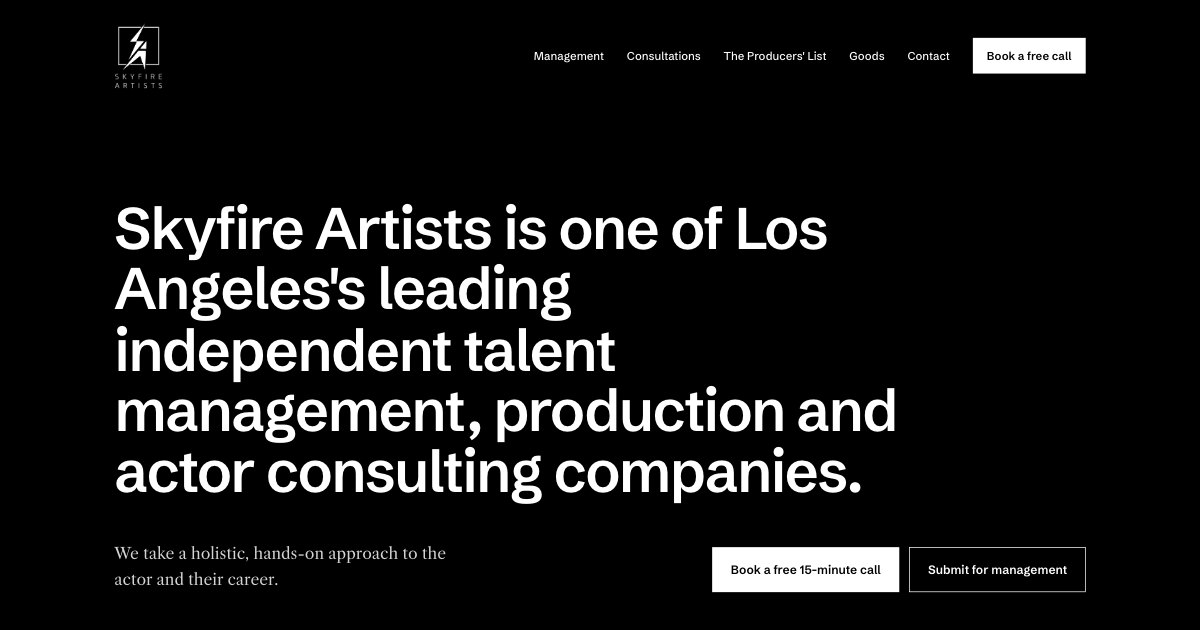
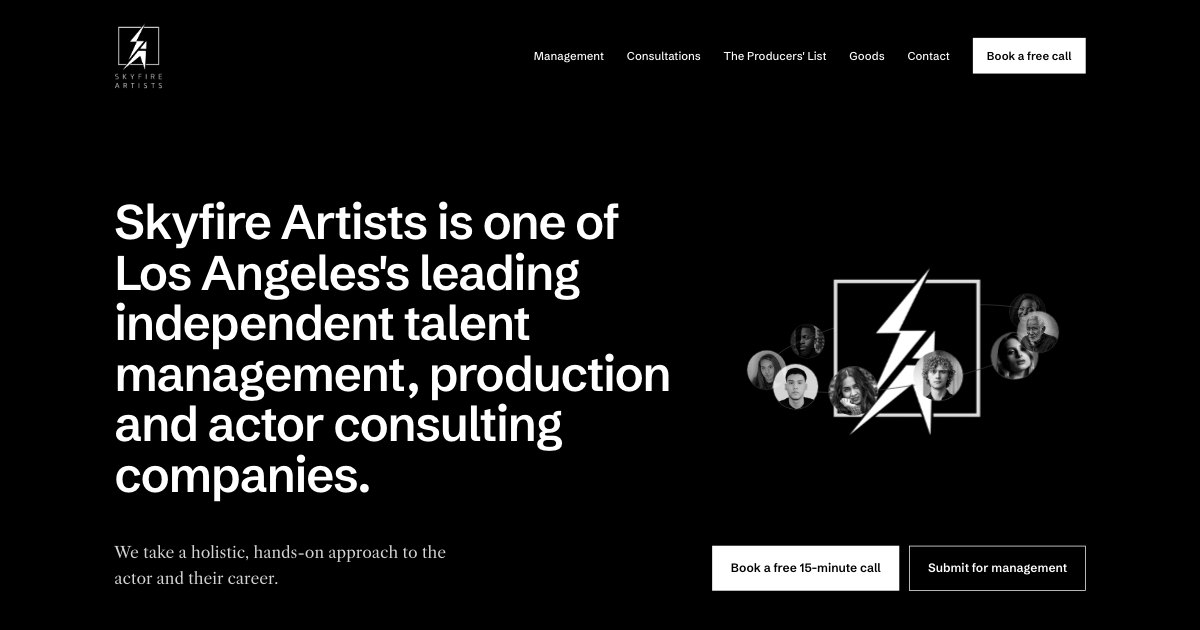
Experiments: Skyfire, the mark as a planet with a ring of clients in orbit
Ten stand-in client portraits (free Unsplash photos, black and white) circle
the bolt mark beside the headline. Still under reduced motion.

Changed region(s): [[0.0925, 0.3016, 0.8942, 0.8143], [0.5858, 0.8444, 0.8942, 0.9651], [0.0925, 0.8746, 0.37, 0.9349]]

diff --git a/site/experiments/skyfire/index.html b/site/experiments/skyfire/index.html
@@ -16,7 +16,7 @@
 <meta property="og:image" content="https://daltoncorr.com/experiments/skyfire/assets/og.jpg">
 <meta property="og:image:width" content="1200">
 <meta property="og:image:height" content="630">
-<meta property="og:image:alt" content="The Skyfire Artists logo above the headline: Skyfire Artists is one of Los Angeles's leading independent talent management, production and actor consulting companies.">
+<meta property="og:image:alt" content="The headline, Skyfire Artists is one of Los Angeles's leading independent talent management, production and actor consulting companies, beside the Skyfire bolt mark circled by a ring of client portraits.">
 <meta name="twitter:card" content="summary_large_image">
 <link rel="preload" href="fonts/schibsted-grotesk-latin-wght-normal.woff2" as="font" type="font/woff2" crossorigin>
 <style>
@@ -76,6 +76,22 @@ main:focus{outline:none}
 .sf-actions{display:flex;flex-wrap:wrap;gap:14px}
 .sf-hero .btn-white{padding:18px 26px;font-size:17px}
 .sf-hero .btn-line{padding:17px 25px;font-size:17px}
+
+/* The Skyfire mark as a planet, with a ring of clients in orbit (positions set by the script below) */
+.sf-hero-top{display:grid;grid-template-columns:minmax(0,1fr);align-items:center;gap:48px}
+@media (min-width:1180px){
+  .sf-hero-top{grid-template-columns:minmax(0,1fr) minmax(400px,500px);gap:40px}
+  .sf-hero h1{font-size:clamp(40px,4.5vw,68px)}
+}
+.sf-orbit{position:relative;width:100%;max-width:500px;aspect-ratio:25/19;margin:0 auto;pointer-events:none;user-select:none}
+.sf-planet{position:absolute;left:50%;top:50%;z-index:3;width:42%;transform:translate(-50%,-50%)}
+.sf-planet img{position:relative;display:block;width:100%;height:auto}
+.sf-planet::before{content:"";position:absolute;inset:7.2% 1.6% 11.4% 1.2%;background:var(--black)}   /* the square is solid, so clients behind it are hidden */
+.sf-ring{position:absolute;inset:0;width:100%;height:100%;overflow:visible}
+.sf-ring path{fill:none;stroke:#3A3A3A;stroke-width:1}
+.sf-ring--back{z-index:1}
+.sf-ring--front{z-index:4}
+.sf-moon{position:absolute;left:50%;top:50%;z-index:2;width:12.5%;height:auto;aspect-ratio:1;border-radius:50%;object-fit:cover;box-shadow:0 0 0 1px rgba(255,255,255,.28);transform:translate(-50%,-50%);will-change:transform,opacity}
 
 /* Results: white fills each box from the bottom */
 .sf-results{padding-top:112px;padding-bottom:112px;display:flex;flex-wrap:wrap;align-items:flex-start;gap:48px 80px}
@@ -231,7 +247,24 @@ main:focus{outline:none}
 
 <main id="main" tabindex="-1">
   <section id="top" class="wrap sf-hero">
-    <h1>Skyfire Artists is one of Los Angeles's leading independent talent management, production and actor consulting companies.</h1>
+    <div class="sf-hero-top">
+      <h1>Skyfire Artists is one of Los Angeles's leading independent talent management, production and actor consulting companies.</h1>
+      <div class="sf-orbit" aria-hidden="true">
+        <svg class="sf-ring sf-ring--back"><path/></svg>
+        <div class="sf-planet"><img src="assets/skyfire-mark-white.png" width="440" height="492" alt="" fetchpriority="high"></div>
+        <svg class="sf-ring sf-ring--front"><path/></svg>
+        <img class="sf-moon" src="assets/clients/client-01.webp" width="240" height="240" alt="" decoding="async">
+        <img class="sf-moon" src="assets/clients/client-02.webp" width="240" height="240" alt="" decoding="async">
+        <img class="sf-moon" src="assets/clients/client-03.webp" width="240" height="240" alt="" decoding="async">
+        <img class="sf-moon" src="assets/clients/client-06.webp" width="240" height="240" alt="" decoding="async">
+        <img class="sf-moon" src="assets/clients/client-04.webp" width="240" height="240" alt="" decoding="async">
+        <img class="sf-moon" src="assets/clients/client-09.webp" width="240" height="240" alt="" decoding="async">
+        <img class="sf-moon" src="assets/clients/client-05.webp" width="240" height="240" alt="" decoding="async">
+        <img class="sf-moon" src="assets/clients/client-10.webp" width="240" height="240" alt="" decoding="async">
+        <img class="sf-moon" src="assets/clients/client-08.webp" width="240" height="240" alt="" decoding="async">
+        <img class="sf-moon" src="assets/clients/client-07.webp" width="240" height="240" alt="" decoding="async">
+      </div>
+    </div>
     <div class="sf-hero-foot">
       <p class="sf-lede sf-serif">We take a holistic, hands-on approach to the actor and their career.</p>
       <div class="sf-actions">
@@ -443,6 +476,76 @@ main:focus{outline:none}
       form.querySelector('.sf-sent').textContent = 'This is a concept. Nothing was sent.';
     });
   });
+
+  // Hero: the clients circle the Skyfire mark like a ring round a planet. The ring is tilted towards
+  // the viewer, so a client at the front is lower, larger and brighter, and passes in front of the mark.
+  var orbit = document.querySelector('.sf-orbit');
+  if (!orbit) return;
+  var planet = orbit.querySelector('.sf-planet');
+  var moons = [].slice.call(orbit.querySelectorAll('.sf-moon'));
+  var backArc = orbit.querySelector('.sf-ring--back path'), frontArc = orbit.querySelector('.sf-ring--front path');
+  var still = window.matchMedia('(prefers-reduced-motion: reduce)').matches;
+  var LAP = 46000;                                   // ms for one turn of the ring
+  var reach = moons.map(function (m, i) { return i % 2 ? 0.93 : 1; });   // two lanes, so the ring has depth
+  var W, cx, cy, R, spin = 0, last = 0, live = false;
+  var lean = -0.17, leanTo = -0.17, open = 0.26, openTo = 0.26;          // ring angle (rad) and how far it opens
+
+  function measure() { W = orbit.clientWidth; cx = W / 2; cy = orbit.clientHeight / 2; R = W * 0.4; }
+
+  function arc(sweep) {        // half the ring's ellipse, tilted by lean: sweep 1 = far half, 0 = near half
+    var c = Math.cos(lean), s = Math.sin(lean), d = 'M', n = 24;
+    for (var k = 0; k <= n; k++) {
+      var a = Math.PI * k / n * (sweep ? -1 : 1), x = R * Math.cos(a), y = R * open * Math.sin(a);
+      d += (k ? ' L' : '') + (cx + x * c - y * s).toFixed(1) + ' ' + (cy + x * s + y * c).toFixed(1);
+    }
+    return d;
+  }
+
+  function draw(t) {
+    var c = Math.cos(lean), s = Math.sin(lean);
+    backArc.setAttribute('d', arc(1));
+    frontArc.setAttribute('d', arc(0));
+    planet.style.transform = 'translate(-50%,-50%) translateY(' + (still ? 0 : Math.sin(t / 2600) * 5).toFixed(2) + 'px)';
+    moons.forEach(function (m, i) {
+      var a = spin + i * 2 * Math.PI / moons.length;
+      var x = R * reach[i] * Math.cos(a), y = R * reach[i] * open * Math.sin(a);
+      var near = (1 + Math.sin(a)) / 2;                         // 0 at the back of the ring, 1 at the front
+      var bob = still ? 0 : Math.sin(t / 1700 + i * 1.3) * 3;
+      m.style.transform = 'translate(' + (x * c - y * s).toFixed(1) + 'px,' + (x * s + y * c + bob).toFixed(1) + 'px) translate(-50%,-50%) scale(' + (0.68 + 0.42 * near).toFixed(3) + ')';
+      m.style.opacity = (0.4 + 0.6 * near).toFixed(3);
+      m.style.zIndex = Math.sin(a) > 0 ? 5 : 2;
+    });
+  }
+
+  function frame(t) {
+    if (!live) return;
+    var dt = Math.min(t - (last || t), 50); last = t;
+    spin += dt / LAP * 2 * Math.PI;
+    lean += (leanTo - lean) * 0.05; open += (openTo - open) * 0.05;
+    draw(t);
+    requestAnimationFrame(frame);
+  }
+
+  measure(); draw(0);
+  window.addEventListener('resize', function () { measure(); draw(performance.now()); });
+  if (still) return;
+
+  // Only run while the opening is on screen
+  new IntersectionObserver(function (entries) {
+    var on = entries[0].isIntersecting;
+    if (on && !live) { live = true; last = 0; requestAnimationFrame(frame); }
+    live = on;
+  }).observe(orbit);
+
+  // With a mouse, the ring leans and opens a little towards the pointer
+  if (window.matchMedia('(hover: hover)').matches) {
+    document.getElementById('top').addEventListener('pointermove', function (e) {
+      var r = orbit.getBoundingClientRect();
+      var px = Math.max(-1, Math.min(1, (e.clientX - (r.left + r.width / 2)) / r.width));
+      var py = Math.max(-1, Math.min(1, (e.clientY - (r.top + r.height / 2)) / r.height));
+      leanTo = -0.17 + px * 0.12; openTo = 0.26 + py * 0.1;
+    });
+  }
 })();
 </script>
 </body>
